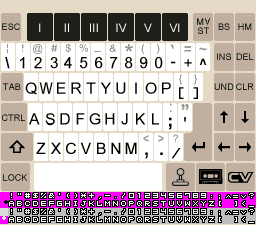
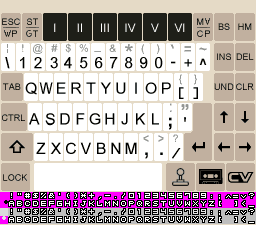
9.4n with support for Adam expanded ROMs loading in the uppper 32K area. Rename your .rom files to .adm to signal to the emulator that these are special expansion ROMs or carts you want to load with full Adam emulation (mostly in-house diagnostic utilities and such).  Tatung Einstein disk menu overh

Changed region(s): [[0.25, 0.0622, 0.8438, 0.1867], [0.0, 0.0311, 0.2188, 0.1867]]

diff --git a/arm9/source/colecoDS.c b/arm9/source/colecoDS.c
@@ -2041,14 +2041,15 @@ u8 handle_adam_keyboard_press(u16 iTx, u16 iTy)
 {
     if ((iTy >= 12) && (iTy < 42))        // Row 1 (top row with I-VI Smartkeys)
     {
-        if      ((iTx >= 0)   && (iTx < 25))   kbd_key = ADAM_KEY_ESC;
-        else if ((iTx >= 25)  && (iTx < 53))   kbd_key = ADAM_KEY_F1;
-        else if ((iTx >= 53)  && (iTx < 81))   kbd_key = ADAM_KEY_F2;
-        else if ((iTx >= 81)  && (iTx < 108))  kbd_key = ADAM_KEY_F3;
-        else if ((iTx >= 108) && (iTx < 134))  kbd_key = ADAM_KEY_F4;
-        else if ((iTx >= 134) && (iTx < 161))  kbd_key = ADAM_KEY_F5;
-        else if ((iTx >= 161) && (iTx < 190))  kbd_key = ADAM_KEY_F6;
-        else if ((iTx >= 190) && (iTx < 213))  kbd_key = (key_shift ? ADAM_KEY_STORE:ADAM_KEY_MOVE);
+        if      ((iTx >= 0)   && (iTx < 22))   kbd_key = ADAM_KEY_ESC;
+        if      ((iTx >= 22)  && (iTx < 43))   kbd_key = (key_shift ? ADAM_KEY_WILDCARD:ADAM_KEY_STORE);
+        else if ((iTx >= 43)  && (iTx < 67))   kbd_key = ADAM_KEY_F1;
+        else if ((iTx >= 67)  && (iTx < 92))   kbd_key = ADAM_KEY_F2;
+        else if ((iTx >= 92)  && (iTx < 118))  kbd_key = ADAM_KEY_F3;
+        else if ((iTx >= 118) && (iTx < 142))  kbd_key = ADAM_KEY_F4;
+        else if ((iTx >= 142) && (iTx < 167))  kbd_key = ADAM_KEY_F5;
+        else if ((iTx >= 167) && (iTx < 192))  kbd_key = ADAM_KEY_F6;
+        else if ((iTx >= 192) && (iTx < 213))  kbd_key = (key_shift ? ADAM_KEY_WILDCARD:ADAM_KEY_MOVE);
         else if ((iTx >= 213) && (iTx < 235))  kbd_key = ADAM_KEY_BS;
         else if ((iTx >= 235) && (iTx < 255))  kbd_key = ADAM_KEY_HOME;
     }
@@ -4354,7 +4355,7 @@ int main(int argc, char **argv)
   // -----------------------------------------------------------------
   if (isDSiMode())
   {
-      DSI_RAM_Buffer = malloc(1024*1024); // 1MB
+      DSI_RAM_Buffer = malloc(2 * 1024*1024); // 2MB of Expanded RAM
   }
 
   // -----------------------------------------------------------------

diff --git a/arm9/source/AdamNet.c b/arm9/source/AdamNet.c
@@ -306,7 +306,7 @@ void SetupAdam(bool bResetAdamNet)
     {
         adam_ram_present[4] = adam_ram_present[5] = adam_ram_present[6] = adam_ram_present[7] = 0; // ROM
         
-        if (adam_mode == 3)
+        if (adam_mode == 3) // We are running a normal CV Cart but with full ADAM emulation...
         {
             MemoryMap[4] = ROM_Memory + (992 * 1024) + 0x0000;
             MemoryMap[5] = ROM_Memory + (992 * 1024) + 0x2000;
@@ -325,7 +325,7 @@ void SetupAdam(bool bResetAdamNet)
     {
         adam_ram_present[4] = adam_ram_present[5] = adam_ram_present[6] = adam_ram_present[7] = 0; // ROM
         
-        if (adam_mode == 2)
+        if (adam_mode == 2) // We've got a ROM expansion...
         {
             MemoryMap[4] = ROM_Memory + (992 * 1024) + 0x0000;
             MemoryMap[5] = ROM_Memory + (992 * 1024) + 0x2000;

diff --git a/arm9/source/colecomngt.h b/arm9/source/colecomngt.h
@@ -1,3 +1,13 @@
+// =====================================================================================
+// Copyright (c) 2021-2024 Dave Bernazzani (wavemotion-dave)
+//
+// Copying and distribution of this emulator, it's source code and associated 
+// readme files, with or without modification, are permitted in any medium without 
+// royalty provided this copyright notice is used and wavemotion-dave (Phoenix-Edition),
+// Alekmaul (original port) and Marat Fayzullin (ColEM core) are thanked profusely.
+//
+// The ColecoDS emulator is offered as-is, without any warranty.
+// =====================================================================================
 #ifndef _COLECOMNGT_H
 #define _COLECOMNGT_H
 

diff --git a/arm9/source/colecomngt.c b/arm9/source/colecomngt.c
@@ -1022,7 +1022,7 @@ ITCM_CODE void cpu_writeport16(register unsigned short Port,register unsigned ch
   {
       if (isDSiMode())
       {
-          Port42 = Value & 0x0F;        // 1MB worth of banks (16 banks of 64K)
+          Port42 = Value & 0x1F;        // 2MB worth of banks (32 banks of 64K)
           if (adam_mode) SetupAdam(false);
       }
       else Port42 = 0x00; // No extra banking for DS-Lite/Phat (just the stock 64K plus 64K expansion)
